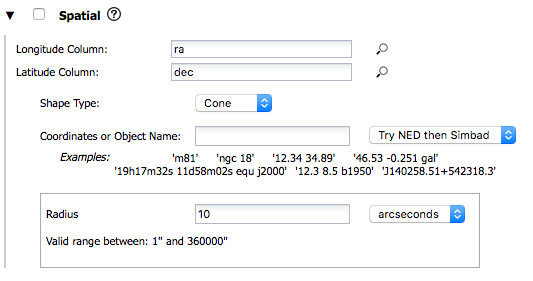
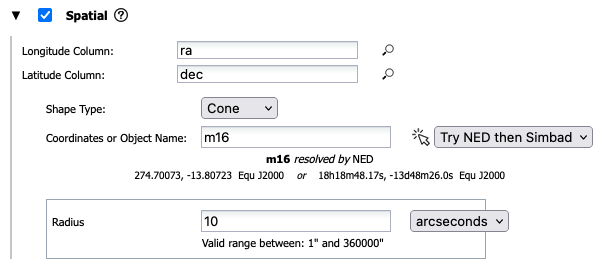
click to search TAP stuff

diff --git a/html/firefly/catalogs.html b/html/firefly/catalogs.html
@@ -547,7 +547,41 @@ href="basics.html#searching">simpler search</A>:<br>
 <img src="img/enterconstraints-spatial1.png" width=40%"><P>
 
 And, this is what it looks like when you do a polygon search.<br>
-<img src="img/enterconstraints-spatial2.png" width=40%">
+<img src="img/enterconstraints-spatial2.png" width=40%"><P>
+
+For both of these spatial searches, you can <strong>adjust the search via
+clicking on a HiPS map</strong>. Click on this icon: <img
+src="img/clicktosearch.png"> to bring up a window:<P>
+<table><tr><td><img src="img/clicktosearch1.png" width="500"></td><td>
+If you have entered a target already, the window arrives already
+centered on the target. If not, it is centered on the galactic center,
+zoomed out. If you have entered a cone search radius already, then the
+circle drawn on the image is that cone size. You can manipulate this
+image with the same basic tools as in the <a
+href="visualization.html">visualization tools</A>.
+</td></tr></table><P>
+<table><tr><td><img src="img/clicktosearch2.png" width="500"></td><td>
+To change the search region interactively, choose the selection
+tools and draw a shape on the image.<P>
+<strong>Note that</strong> if you have selected a cone search on the
+left, no matter what you select on the right, it will give you a cone
+search. If you change the cone position or radius in the yellow boxes
+after you change the selection, it will update the region in the
+image. </td></tr></table><P>
+<table><tr><td><img src="img/clicktosearch3.png" width="500"></td><td>
+If you want to quit out of the selection without changing, click on
+"end selection" (the red text near the top of the image). 
+ </td></tr></table><P>
+<table><tr><td><img src="img/clicktosearch4.png" width="500"></td><td>
+If you select polygon on the left, and you use the selection tool for
+"elliptical selection" on the right, you will get a spherical polygon
+(a polygon where the line segments are on a sphere).
+ </td></tr></table>
+<P>
+When you are done with this pop-up window, click on the 'x' in the
+upper right of the window. Then you can continue to enter constraints,
+or just search from this point.<P>
+
 
 
 <dt><strong><a name="tapSearches.temporal">Enter Constraints:
